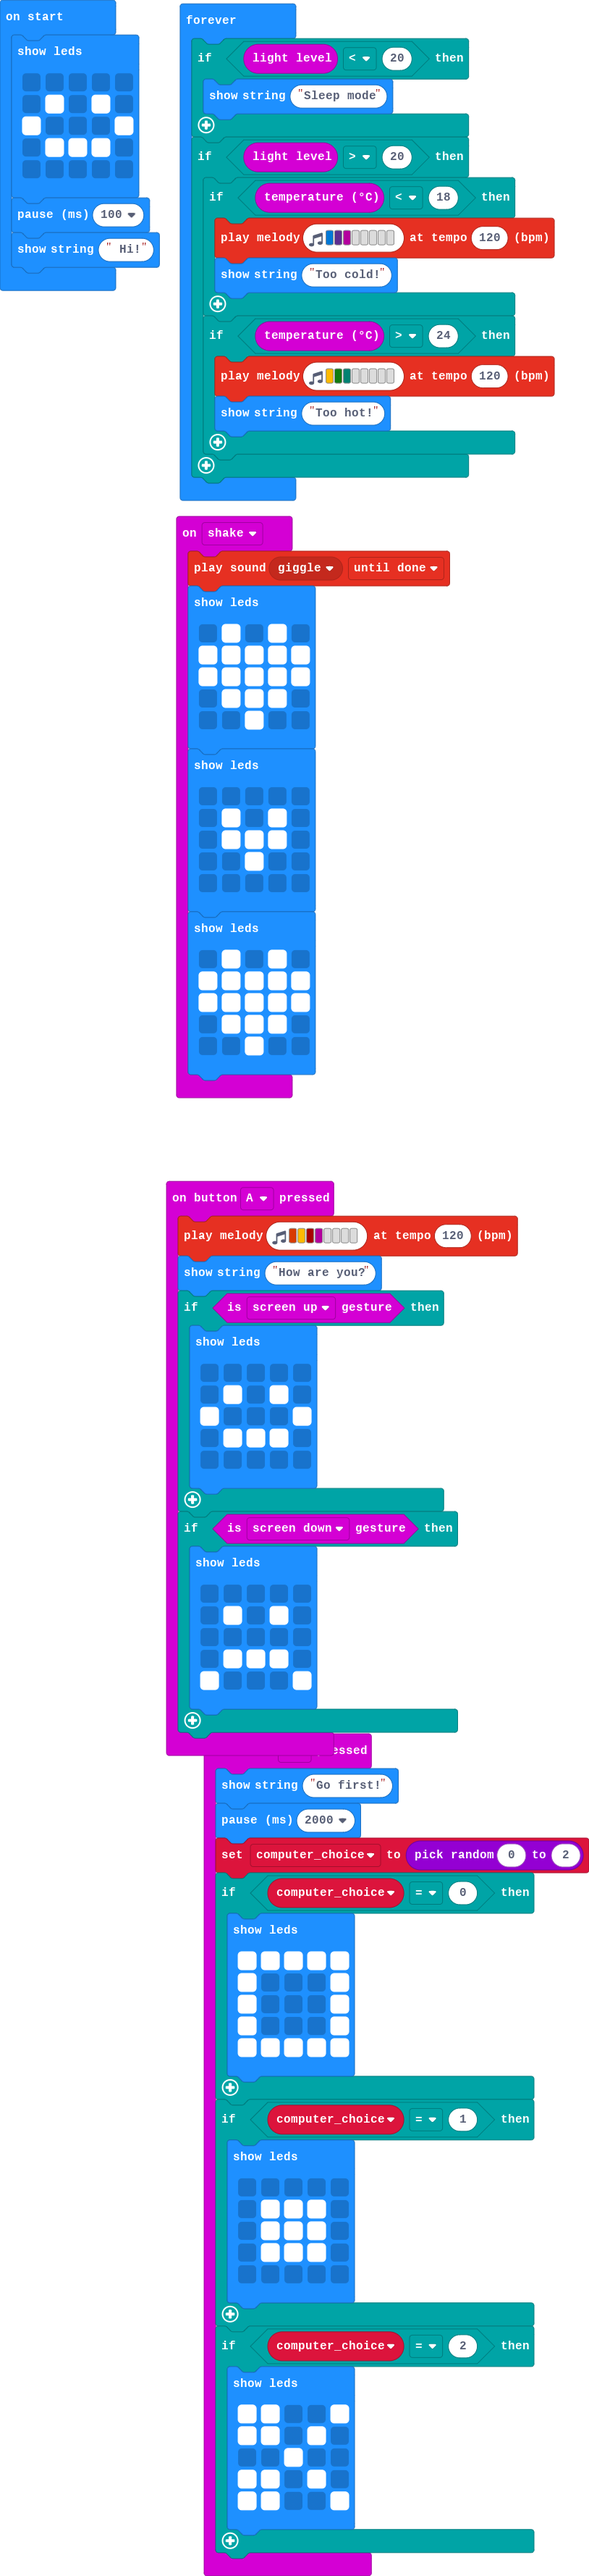
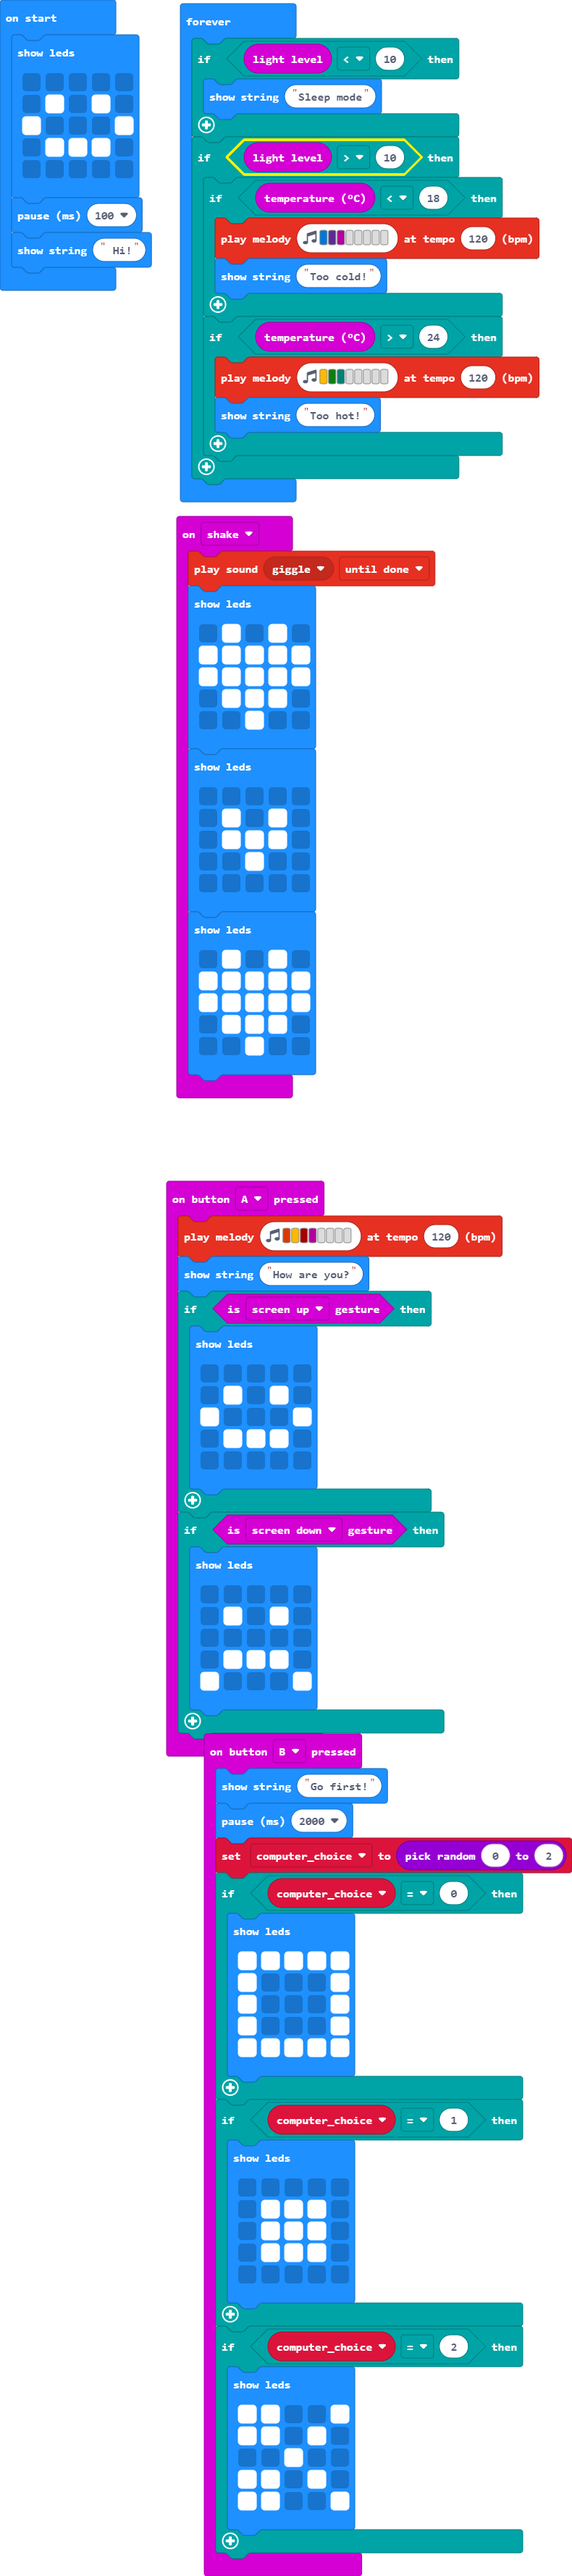
Update main.blocks, main.ts

diff --git a/main.ts b/main.ts
@@ -87,10 +87,10 @@ basic.showLeds(`
 basic.pause(100)
 basic.showString(" Hi!")
 basic.forever(function () {
-    if (input.lightLevel() < 20) {
+    if (input.lightLevel() < 10) {
         basic.showString("Sleep mode")
     }
-    if (input.lightLevel() > 20) {
+    if (input.lightLevel() > 10) {
         if (input.temperature() < 18) {
             music.playMelody("E D C - - - - - ", 120)
             basic.showString("Too cold!")
